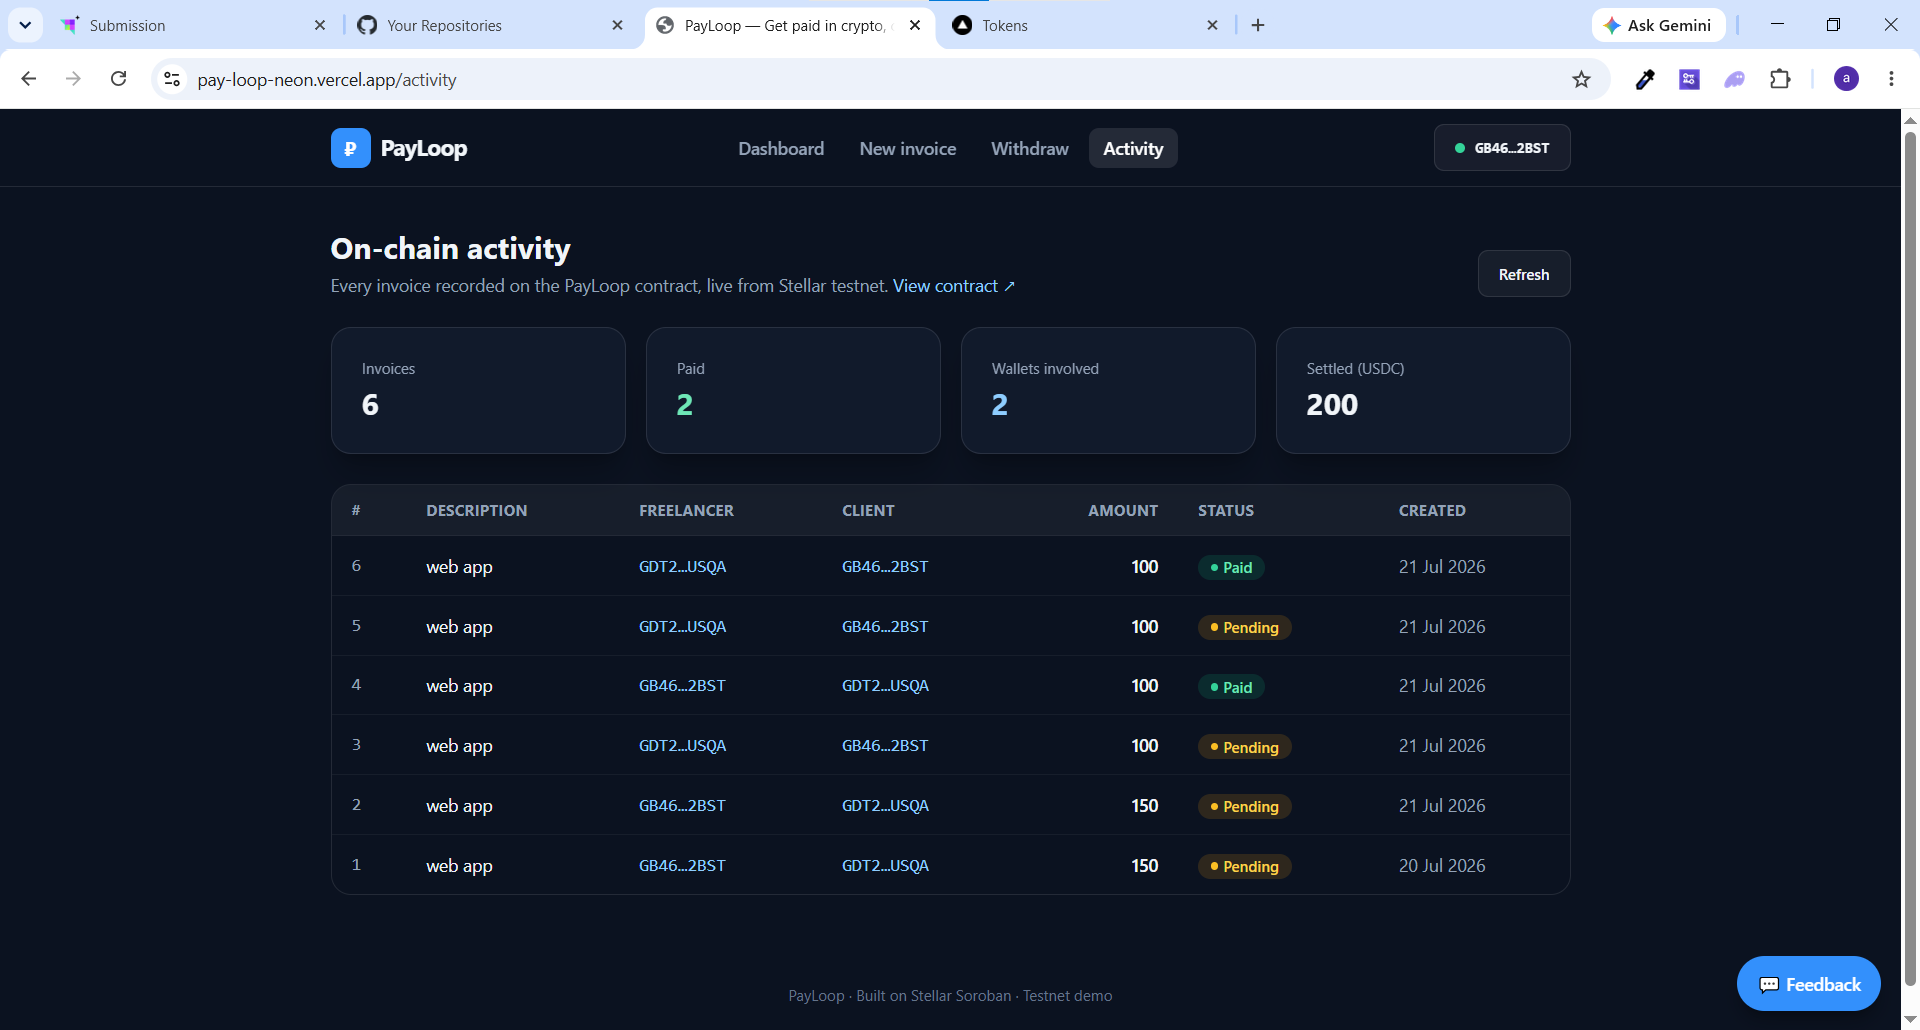
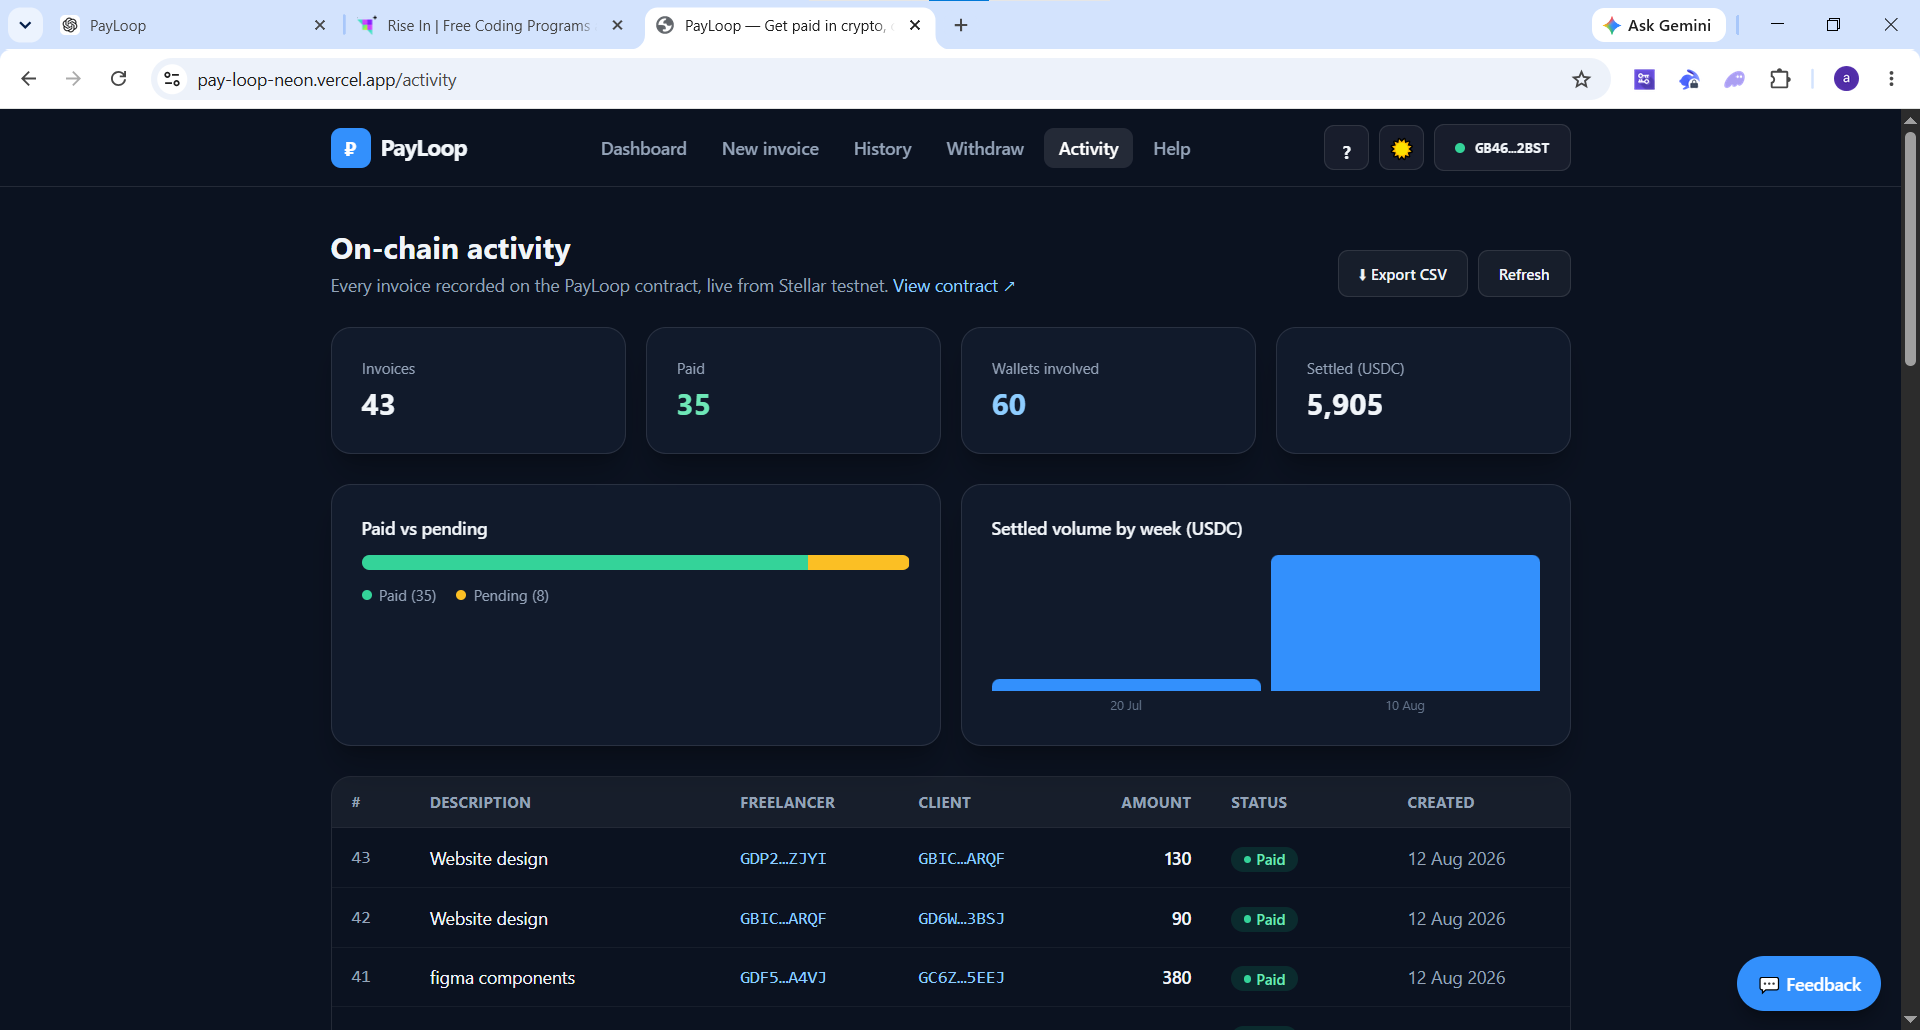
docs: update Level-5 feature screenshots and README gallery

diff --git a/README.md b/README.md
@@ -165,14 +165,12 @@ GitHub Actions runs on every push and pull request
 | ![Create invoice with templates](docs/screenshots/create.png) | ![Payment paid](docs/screenshots/pay.png) |
 | **On-chain activity** | **Mobile** |
 | ![Activity](docs/screenshots/activity.png) | ![Mobile](docs/screenshots/mobile.jpeg) |
+| **Template picker** | **Help / FAQ** |
+| ![Template picker](docs/screenshots/template-picker.png) | ![Help / FAQ](docs/screenshots/help.png) |
 | **Monitoring (Sentry)** | |
 | ![Monitoring](docs/screenshots/analytics.png) | |
 
-More in [docs/screenshots/](docs/screenshots/). Also shipped this feedback
-cycle (screenshots not yet in the gallery above): the in-app
-[Help / FAQ](https://pay-loop-neon.vercel.app/help) page and the
-[Activity page](https://pay-loop-neon.vercel.app/activity)'s paid-vs-pending
-split and settled-volume-by-day/week charts — see
+More in [docs/screenshots/](docs/screenshots/) — see
 [docs/GROWTH.md](docs/GROWTH.md) for the full feedback → shipped trace.
 
 **Watch the 🎬 [demo video](https://www.loom.com/share/0b08c1208df841ac96ecd61b2b05a7a9)** for the full create → pay → on-chain loop. The demo-video script, onboarding
